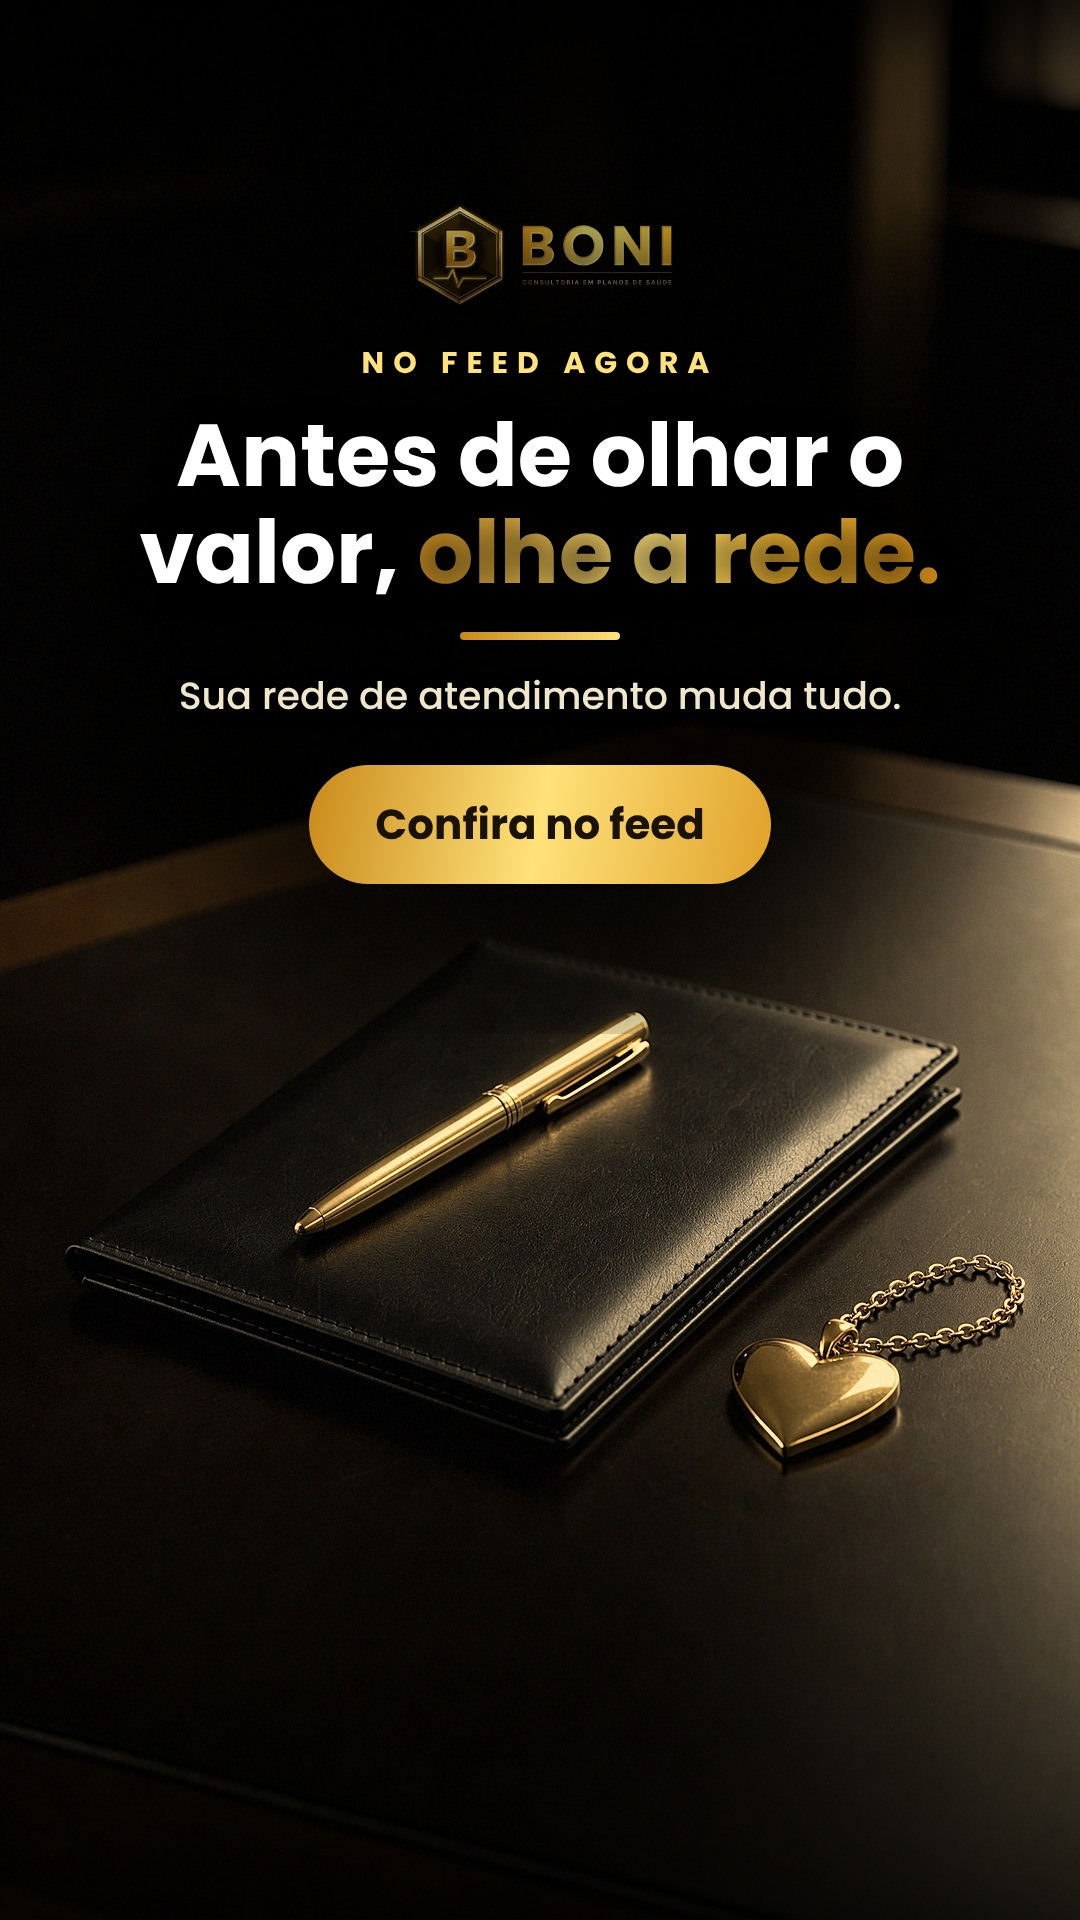
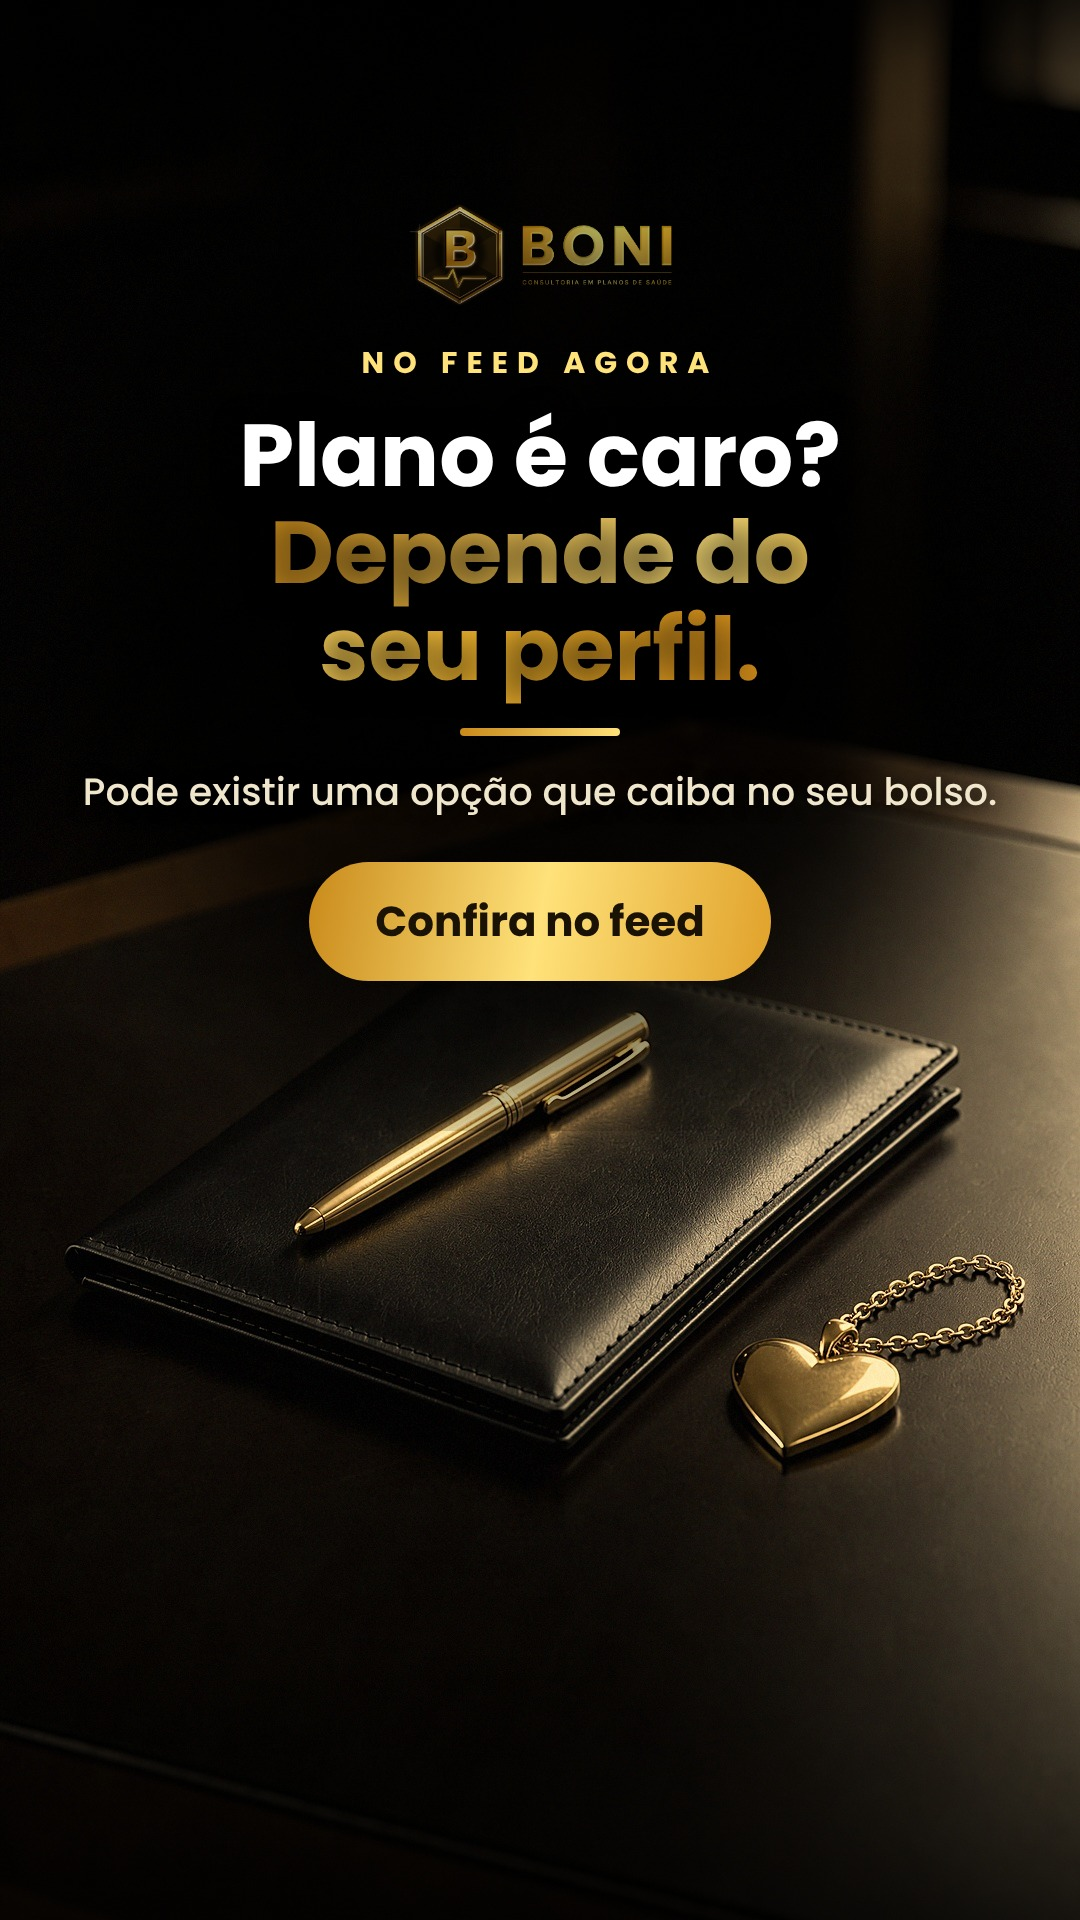
Semana 12-18/10: posts 'Plano é caro?' e 'Nunca usei o plano' + story de cena (aguardando aprovação)
Claude-Session: https://claude.ai/code/session_016UNNimnYsNx4a66oMiDygB

Changed region(s): [[0.0917, 0.2188, 0.9167, 0.5938]]

diff --git a/posts/10-plano-caro/_unico.html b/posts/10-plano-caro/_unico.html
@@ -1,0 +1,74 @@
+<!doctype html><html><head><meta charset="utf-8"><style>
+@font-face{font-family:'Poppins';font-weight:500;src:url('file:///tmp/kt/fontes/Poppins-Medium.ttf')}
+@font-face{font-family:'Poppins';font-weight:400;src:url('file:///tmp/kt/fontes/Poppins-Regular.ttf')}
+@font-face{font-family:'Poppins';font-weight:600;src:url('file:///tmp/kt/fontes/Poppins-Bold.ttf')}
+@font-face{font-family:'Poppins';font-weight:700;src:url('file:///tmp/kt/fontes/Poppins-Bold.ttf')}
+@font-face{font-family:'Poppins';font-weight:800;src:url('file:///tmp/kt/fontes/Poppins-Bold.ttf')}
+*{box-sizing:border-box;margin:0;padding:0}
+body{background:#222;font-family:'Poppins',sans-serif}
+.s{width:1080px;height:1350px;position:relative;overflow:hidden}
+.dark{background:radial-gradient(ellipse at 50% 18%,#2a1d07 0%,#0d0a05 48%,#000 100%);color:#fff}
+.light{background:radial-gradient(ellipse at 20% 0%,#fffdf8 0%,#f4eee2 60%,#ece3d0 100%);color:#17140d;display:flex;flex-direction:column;padding:190px 70px 0}
+.gold{background:linear-gradient(100deg,#c98a1a 0%,#ffe27a 45%,#f5b82e 70%,#d98f1a 100%);-webkit-background-clip:text;background-clip:text;color:transparent}
+.goldd{background:linear-gradient(100deg,#8a5a08 0%,#d9a02a 50%,#9a6a0e 100%);-webkit-background-clip:text;background-clip:text;color:transparent}
+.foot{position:absolute;left:70px;right:70px;bottom:52px;display:flex;justify-content:space-between;align-items:center;font-size:23px;letter-spacing:.5px}
+.foot b{font-weight:600}.dark .foot{color:#cdbb8c}.light .foot{color:#6b5a30}.pg{font-weight:600}
+.bar{position:absolute;left:70px;right:70px;bottom:112px;height:2px;background:linear-gradient(90deg,transparent,#c98a1a,transparent);opacity:.7}
+.c1 .em{position:absolute;left:50%;top:70px;width:560px;height:560px;transform:translateX(-50%);mix-blend-mode:lighten}
+.c1 .t{position:absolute;left:70px;right:70px;top:650px;text-align:center}
+.c1 .n{font-size:260px;line-height:.9;font-weight:800}
+.c1 .m{font-size:78px;font-weight:700;line-height:1.05;letter-spacing:2px;margin-top:6px}
+.c1 .m.long{font-size:70px;line-height:1.1;margin-top:0}
+.c1 .p{font-size:50px;font-weight:500;line-height:1.2;margin-top:26px;color:#f0e6cc}
+.c1 .sw{position:absolute;bottom:130px;left:0;right:0;text-align:center;font-size:30px;letter-spacing:6px;color:#ffe27a;font-weight:600}
+.num{position:absolute;right:50px;top:20px;font-size:420px;font-weight:800;line-height:1;opacity:.16}
+.ic{width:170px;height:170px;border-radius:38px;background:linear-gradient(145deg,#1a1308,#000);display:flex;align-items:center;justify-content:center;box-shadow:0 18px 40px rgba(120,80,10,.28),inset 0 0 0 3px #c98a1a;flex:none}
+.ic svg{width:100px;height:100px}
+.tag{margin-top:70px;font-size:32px;font-weight:600;letter-spacing:9px}
+.h{margin-top:22px;font-size:104px;font-weight:800;line-height:1.04}
+.hl{margin:48px 0 44px;width:170px;height:9px;border-radius:5px;background:linear-gradient(90deg,#c98a1a,#ffe27a)}
+.b{font-size:52px;line-height:1.36;font-weight:500;color:#2c261a;padding-right:20px}
+.b.small{font-size:46px}
+.c7 .ph{position:absolute;left:50%;top:150px;width:460px;height:460px;transform:translateX(-50%);border-radius:36px;overflow:hidden;box-shadow:0 0 0 4px #c98a1a,0 0 70px rgba(255,190,60,.35)}
+.c7 .ph img{width:100%;height:100%;object-fit:cover;object-position:50% 20%}
+.c7 .nm{position:absolute;top:640px;left:0;right:0;text-align:center;font-size:30px;letter-spacing:2px;color:#e8d9aa}
+.c7 .nm b{color:#fff;font-size:38px;font-weight:700;display:block;letter-spacing:1px}
+.c7 .q{position:absolute;top:745px;left:70px;right:70px;text-align:center;font-size:62px;font-weight:800;line-height:1.1}
+.c7 .tx{position:absolute;top:915px;left:80px;right:80px;text-align:center;font-size:33px;line-height:1.38;color:#f0e6cc;font-weight:500}
+.c7 .tx em{font-style:normal;color:#ffe27a;font-weight:700}
+.c7 .btn{position:absolute;top:1120px;left:50%;transform:translateX(-50%);padding:24px 54px;border-radius:70px;background:linear-gradient(100deg,#c98a1a,#ffe27a 50%,#e0a12a);color:#1a1205;font-size:36px;font-weight:700;white-space:nowrap}
+.c7 .leg{position:absolute;bottom:50px;left:60px;right:60px;text-align:center;font-size:20px;color:#a8996d;line-height:1.35}
+.f{background:#000;color:#fff}
+.f .bg{position:absolute;inset:0;width:100%;height:100%;object-fit:cover}
+.f .ov{position:absolute;inset:0;background:linear-gradient(180deg,rgba(0,0,0,.72) 0%,rgba(0,0,0,.05) 20%,rgba(0,0,0,.15) 38%,rgba(0,0,0,.86) 58%,rgba(0,0,0,.97) 100%)}
+.f .lg{position:absolute;left:60px;top:46px;height:84px;mix-blend-mode:lighten}
+.f .ct{text-shadow:0 2px 12px #000;position:absolute;right:64px;top:70px;font-size:26px;font-weight:600;letter-spacing:5px;color:#ffe27a}
+.f .ct i{font-style:normal;color:#8c7a4a}
+.f .blk{position:absolute;left:70px;right:70px;bottom:150px}
+.f .chip{display:flex;align-items:center;gap:22px}
+.f .ci{width:92px;height:92px;border-radius:26px;background:rgba(10,8,4,.62);backdrop-filter:blur(6px);display:flex;align-items:center;justify-content:center;box-shadow:inset 0 0 0 2.5px #c98a1a}
+.f .ci svg{width:54px;height:54px}
+.f .tg{font-size:30px;font-weight:600;letter-spacing:9px}
+.f .h{margin-top:26px;text-wrap:balance;font-size:92px;font-weight:800;line-height:1.04;text-shadow:0 4px 30px rgba(0,0,0,.6)}
+.f .hl{margin:34px 0 32px;width:150px;height:8px;border-radius:5px;background:linear-gradient(90deg,#c98a1a,#ffe27a)}
+.f .b{font-size:41px;line-height:1.38;font-weight:500;color:#eadfc2;padding:0;max-width:900px}
+.f .b.small{font-size:38px}
+.f .ft{position:absolute;left:70px;right:70px;bottom:56px;display:flex;justify-content:space-between;align-items:center;font-size:24px;letter-spacing:1px;color:#cdbb8c;font-weight:600}
+.f .ft .sw{color:#ffe27a;letter-spacing:6px}
+.f.cv .blk{bottom:170px;text-align:left}
+.f.cv .n{font-size:330px;line-height:.82;font-weight:800;letter-spacing:-6px}
+.f.cv .m{font-size:104px;font-weight:800;line-height:1.02;letter-spacing:2px;margin-top:14px}
+.f.cv .p{font-size:50px;font-weight:500;line-height:1.2;margin-top:22px;color:#f0e6cc}
+
+.u{background:radial-gradient(ellipse at 50% 20%,#2a1d07 0%,#0d0a05 52%,#000 100%);color:#fff}
+.u .em{position:absolute;left:50%;top:50px;width:250px;height:250px;transform:translateX(-50%);mix-blend-mode:lighten}
+.u .tg{position:absolute;top:320px;left:0;right:0;text-align:center;font-size:32px;font-weight:700;letter-spacing:10px;color:#ffe27a}
+.u .t{position:absolute;top:390px;left:80px;right:80px;text-align:center}
+.u .l1{font-size:72px;font-weight:700;line-height:1.1;color:#fff}
+.u .l2{font-size:96px;font-weight:800;line-height:1.05;margin-top:6px}
+.u .ln{margin:34px auto;width:170px;height:9px;border-radius:5px;background:linear-gradient(90deg,#c98a1a,#ffe27a)}
+.u .sb{font-size:40px;font-weight:500;line-height:1.35;color:#f0e6cc}
+.u .cta{position:absolute;bottom:150px;left:0;right:0;text-align:center}
+.u .cta .btn{display:inline-block;padding:26px 62px;border-radius:70px;background:linear-gradient(100deg,#c98a1a,#ffe27a 50%,#e0a12a);color:#1a1205;font-size:40px;font-weight:700}
+.u .av{position:absolute;bottom:60px;left:60px;right:60px;text-align:center;font-size:22px;color:#a8996d;line-height:1.35}
+</style></head><body><section class="s u" id="s1"><img class="em" src="file:///tmp/kt/marca/emblema.png"><div class="tg">A PERGUNTA MAIS COMUM</div><div class="t"><div class="l1">Plano de saúde é caro?</div><div class="l2 gold">Depende do seu perfil.</div><div class="ln"></div><div class="sb">Idade, cidade e tipo de plano mudam tudo. Pode existir uma opção que caiba no seu bolso. Eu te mostro.</div></div><div class="cta"><div class="btn">Comente PERFIL</div></div><div class="av">Carências, rede e valores variam por operadora e produto.<br>@boniconsultorsaude · T. R. Bonifácio Promoção de Vendas · CNPJ 24.505.726/0001-44</div></section></body></html>

diff --git a/posts/11-nunca-usei/_unico.html b/posts/11-nunca-usei/_unico.html
@@ -1,0 +1,74 @@
+<!doctype html><html><head><meta charset="utf-8"><style>
+@font-face{font-family:'Poppins';font-weight:500;src:url('file:///tmp/kt/fontes/Poppins-Medium.ttf')}
+@font-face{font-family:'Poppins';font-weight:400;src:url('file:///tmp/kt/fontes/Poppins-Regular.ttf')}
+@font-face{font-family:'Poppins';font-weight:600;src:url('file:///tmp/kt/fontes/Poppins-Bold.ttf')}
+@font-face{font-family:'Poppins';font-weight:700;src:url('file:///tmp/kt/fontes/Poppins-Bold.ttf')}
+@font-face{font-family:'Poppins';font-weight:800;src:url('file:///tmp/kt/fontes/Poppins-Bold.ttf')}
+*{box-sizing:border-box;margin:0;padding:0}
+body{background:#222;font-family:'Poppins',sans-serif}
+.s{width:1080px;height:1350px;position:relative;overflow:hidden}
+.dark{background:radial-gradient(ellipse at 50% 18%,#2a1d07 0%,#0d0a05 48%,#000 100%);color:#fff}
+.light{background:radial-gradient(ellipse at 20% 0%,#fffdf8 0%,#f4eee2 60%,#ece3d0 100%);color:#17140d;display:flex;flex-direction:column;padding:190px 70px 0}
+.gold{background:linear-gradient(100deg,#c98a1a 0%,#ffe27a 45%,#f5b82e 70%,#d98f1a 100%);-webkit-background-clip:text;background-clip:text;color:transparent}
+.goldd{background:linear-gradient(100deg,#8a5a08 0%,#d9a02a 50%,#9a6a0e 100%);-webkit-background-clip:text;background-clip:text;color:transparent}
+.foot{position:absolute;left:70px;right:70px;bottom:52px;display:flex;justify-content:space-between;align-items:center;font-size:23px;letter-spacing:.5px}
+.foot b{font-weight:600}.dark .foot{color:#cdbb8c}.light .foot{color:#6b5a30}.pg{font-weight:600}
+.bar{position:absolute;left:70px;right:70px;bottom:112px;height:2px;background:linear-gradient(90deg,transparent,#c98a1a,transparent);opacity:.7}
+.c1 .em{position:absolute;left:50%;top:70px;width:560px;height:560px;transform:translateX(-50%);mix-blend-mode:lighten}
+.c1 .t{position:absolute;left:70px;right:70px;top:650px;text-align:center}
+.c1 .n{font-size:260px;line-height:.9;font-weight:800}
+.c1 .m{font-size:78px;font-weight:700;line-height:1.05;letter-spacing:2px;margin-top:6px}
+.c1 .m.long{font-size:70px;line-height:1.1;margin-top:0}
+.c1 .p{font-size:50px;font-weight:500;line-height:1.2;margin-top:26px;color:#f0e6cc}
+.c1 .sw{position:absolute;bottom:130px;left:0;right:0;text-align:center;font-size:30px;letter-spacing:6px;color:#ffe27a;font-weight:600}
+.num{position:absolute;right:50px;top:20px;font-size:420px;font-weight:800;line-height:1;opacity:.16}
+.ic{width:170px;height:170px;border-radius:38px;background:linear-gradient(145deg,#1a1308,#000);display:flex;align-items:center;justify-content:center;box-shadow:0 18px 40px rgba(120,80,10,.28),inset 0 0 0 3px #c98a1a;flex:none}
+.ic svg{width:100px;height:100px}
+.tag{margin-top:70px;font-size:32px;font-weight:600;letter-spacing:9px}
+.h{margin-top:22px;font-size:104px;font-weight:800;line-height:1.04}
+.hl{margin:48px 0 44px;width:170px;height:9px;border-radius:5px;background:linear-gradient(90deg,#c98a1a,#ffe27a)}
+.b{font-size:52px;line-height:1.36;font-weight:500;color:#2c261a;padding-right:20px}
+.b.small{font-size:46px}
+.c7 .ph{position:absolute;left:50%;top:150px;width:460px;height:460px;transform:translateX(-50%);border-radius:36px;overflow:hidden;box-shadow:0 0 0 4px #c98a1a,0 0 70px rgba(255,190,60,.35)}
+.c7 .ph img{width:100%;height:100%;object-fit:cover;object-position:50% 20%}
+.c7 .nm{position:absolute;top:640px;left:0;right:0;text-align:center;font-size:30px;letter-spacing:2px;color:#e8d9aa}
+.c7 .nm b{color:#fff;font-size:38px;font-weight:700;display:block;letter-spacing:1px}
+.c7 .q{position:absolute;top:745px;left:70px;right:70px;text-align:center;font-size:62px;font-weight:800;line-height:1.1}
+.c7 .tx{position:absolute;top:915px;left:80px;right:80px;text-align:center;font-size:33px;line-height:1.38;color:#f0e6cc;font-weight:500}
+.c7 .tx em{font-style:normal;color:#ffe27a;font-weight:700}
+.c7 .btn{position:absolute;top:1120px;left:50%;transform:translateX(-50%);padding:24px 54px;border-radius:70px;background:linear-gradient(100deg,#c98a1a,#ffe27a 50%,#e0a12a);color:#1a1205;font-size:36px;font-weight:700;white-space:nowrap}
+.c7 .leg{position:absolute;bottom:50px;left:60px;right:60px;text-align:center;font-size:20px;color:#a8996d;line-height:1.35}
+.f{background:#000;color:#fff}
+.f .bg{position:absolute;inset:0;width:100%;height:100%;object-fit:cover}
+.f .ov{position:absolute;inset:0;background:linear-gradient(180deg,rgba(0,0,0,.72) 0%,rgba(0,0,0,.05) 20%,rgba(0,0,0,.15) 38%,rgba(0,0,0,.86) 58%,rgba(0,0,0,.97) 100%)}
+.f .lg{position:absolute;left:60px;top:46px;height:84px;mix-blend-mode:lighten}
+.f .ct{text-shadow:0 2px 12px #000;position:absolute;right:64px;top:70px;font-size:26px;font-weight:600;letter-spacing:5px;color:#ffe27a}
+.f .ct i{font-style:normal;color:#8c7a4a}
+.f .blk{position:absolute;left:70px;right:70px;bottom:150px}
+.f .chip{display:flex;align-items:center;gap:22px}
+.f .ci{width:92px;height:92px;border-radius:26px;background:rgba(10,8,4,.62);backdrop-filter:blur(6px);display:flex;align-items:center;justify-content:center;box-shadow:inset 0 0 0 2.5px #c98a1a}
+.f .ci svg{width:54px;height:54px}
+.f .tg{font-size:30px;font-weight:600;letter-spacing:9px}
+.f .h{margin-top:26px;text-wrap:balance;font-size:92px;font-weight:800;line-height:1.04;text-shadow:0 4px 30px rgba(0,0,0,.6)}
+.f .hl{margin:34px 0 32px;width:150px;height:8px;border-radius:5px;background:linear-gradient(90deg,#c98a1a,#ffe27a)}
+.f .b{font-size:41px;line-height:1.38;font-weight:500;color:#eadfc2;padding:0;max-width:900px}
+.f .b.small{font-size:38px}
+.f .ft{position:absolute;left:70px;right:70px;bottom:56px;display:flex;justify-content:space-between;align-items:center;font-size:24px;letter-spacing:1px;color:#cdbb8c;font-weight:600}
+.f .ft .sw{color:#ffe27a;letter-spacing:6px}
+.f.cv .blk{bottom:170px;text-align:left}
+.f.cv .n{font-size:330px;line-height:.82;font-weight:800;letter-spacing:-6px}
+.f.cv .m{font-size:104px;font-weight:800;line-height:1.02;letter-spacing:2px;margin-top:14px}
+.f.cv .p{font-size:50px;font-weight:500;line-height:1.2;margin-top:22px;color:#f0e6cc}
+
+.u{background:radial-gradient(ellipse at 50% 20%,#2a1d07 0%,#0d0a05 52%,#000 100%);color:#fff}
+.u .em{position:absolute;left:50%;top:50px;width:250px;height:250px;transform:translateX(-50%);mix-blend-mode:lighten}
+.u .tg{position:absolute;top:320px;left:0;right:0;text-align:center;font-size:32px;font-weight:700;letter-spacing:10px;color:#ffe27a}
+.u .t{position:absolute;top:390px;left:80px;right:80px;text-align:center}
+.u .l1{font-size:72px;font-weight:700;line-height:1.1;color:#fff}
+.u .l2{font-size:96px;font-weight:800;line-height:1.05;margin-top:6px}
+.u .ln{margin:34px auto;width:170px;height:9px;border-radius:5px;background:linear-gradient(90deg,#c98a1a,#ffe27a)}
+.u .sb{font-size:40px;font-weight:500;line-height:1.35;color:#f0e6cc}
+.u .cta{position:absolute;bottom:150px;left:0;right:0;text-align:center}
+.u .cta .btn{display:inline-block;padding:26px 62px;border-radius:70px;background:linear-gradient(100deg,#c98a1a,#ffe27a 50%,#e0a12a);color:#1a1205;font-size:40px;font-weight:700}
+.u .av{position:absolute;bottom:60px;left:60px;right:60px;text-align:center;font-size:22px;color:#a8996d;line-height:1.35}
+</style></head><body><section class="s u" id="s1"><img class="em" src="file:///tmp/kt/marca/emblema.png"><div class="tg">SERÁ QUE PRECISO?</div><div class="t"><div class="l1">Nunca usei plano de saúde.</div><div class="l2 gold">Por que ter um?</div><div class="ln"></div><div class="sb">Porque imprevisto não avisa. Ter plano é ter mais opções de atendimento na hora que você mais precisa.</div></div><div class="cta"><div class="btn">Comente PLANO</div></div><div class="av">Carências, rede e valores variam por operadora e produto.<br>@boniconsultorsaude · T. R. Bonifácio Promoção de Vendas · CNPJ 24.505.726/0001-44</div></section></body></html>

diff --git a/stories/09-semana-12-18/build.py b/stories/09-semana-12-18/build.py
@@ -49,7 +49,7 @@ T = {
  'ter-reel': ('bal', 1.0, 88, B(340, 'REEL NO AR', f'Reajuste do plano de saúde? {G("Veja o que olhar.")}', 'Acabou de sair no feed.', 'Assista no feed')),
  'ter-resposta': ('meet', .9, 88, B(340, 'A RESPOSTA', f'É {G("MITO.")}', 'O plano PME (empresarial) é a partir de 1 vida, inclusive para MEI. Outras condições variam por operadora.')),
  'qua-bastidor': ('laptop', 1.0, 88, B(360, 'BASTIDORES', f'Cada análise começa pelo seu {G("perfil.")}', 'Idade, cidade, rede e orçamento. O plano certo é o que cabe no seu perfil.')),
- 'qua-feed': ('pasta', 1.0, 88, B(340, 'NO FEED AGORA', f'Antes de olhar o valor, {G("olhe a rede.")}', 'Sua rede de atendimento muda tudo.', 'Confira no feed')),
+ 'qua-feed': ('pasta', 1.0, 88, B(340, 'NO FEED AGORA', f'Plano é caro? {G("Depende do seu perfil.")}', 'Pode existir uma opção que caiba no seu bolso.', 'Confira no feed')),
  'qui-dica': ('calbr', .9, 88, B(380, 'DICA RÁPIDA', f'Carência: pergunte {G("antes de assinar.")}', 'Cada plano tem os seus prazos. Peça tudo por escrito.')),
  'qui-feed': ('hand', 1.0, 88, B(340, 'NO FEED AGORA', f'Como contratar, {G("passo a passo.")}', 'Sem complicação, do primeiro contato à proposta.', 'Confira no feed')),
  'sex-1': ('calc', .9, 88, B(380, 'DICA RÁPIDA · 1/3', f'Quem vai {G("usar o plano?")}', 'Só você, a família ou a equipe? O perfil muda o tipo de plano.')),
@@ -57,7 +57,8 @@ T = {
  'sex-3': ('stet', 1.0, 88, B(340, 'DICA RÁPIDA · 3/3', f'Tem mais no {G("carrossel.")}', 'São 7 perguntas no feed. Me chame no WhatsApp com a palavra PERGUNTAS.', 'Fale comigo no link da bio')),
  'sex-reel': ('clock', 1.0, 88, B(340, 'REEL NO AR', f'Saúde {G("não espera.")}', 'Acabou de sair no feed.', 'Assista no feed')),
  'sab-enquete': ('maos', .85, 78, B(330, 'ENQUETE', f'O que pesa mais na hora de escolher o {G("plano?")}', 'Vote abaixo: rede ou mensalidade. Depois eu conto o que vem por aí.')),
- 'sab-feed': ('cal', 1.0, 88, B(340, 'NO FEED AGORA', f'Mito ou verdade: {G("plano PME.")}', 'Plano empresarial é só para empresa grande?', 'Confira no feed')),
+ 'sab-feed': ('cal', 1.0, 88, B(340, 'NO FEED AGORA', f'Nunca usei o plano. {G("Por que ter?")}', 'Porque imprevisto não avisa.', 'Confira no feed')),
+ 'dom-cena': ('phone', .8, 78, B(330, 'CENA DO DIA A DIA', f'Febre do filho de madrugada. {G("Você está preparado?")}', 'Imprevisto de saúde não avisa. Ter plano é ter mais opções na hora de agir.')),
  'dom-leve': ('chair', .9, 88, B(340, 'BOM DOMINGO', f'Segunda tem {G("mais dica.")}', 'Dúvida sobre plano de saúde? Me chame pelo link da bio.')),
 }
 css = CSS.replace('FONTES', (KIT/'fontes').as_uri())

diff --git a/posts/11-nunca-usei/REVISAO.md b/posts/11-nunca-usei/REVISAO.md
@@ -1,0 +1,3 @@
+# Revisão: post "Nunca usei o plano" (sáb 17/10, 19h30)
+- "Mais opções de atendimento" (sem prometer atendimento imediato nem cobertura). A legenda lembra que cada plano tem rede e regras próprias.
+- Sem medo exagerado: cita imprevisto e filho com febre, sem número e sem prazo de espera. CTA: PLANO.

diff --git a/posts/10-plano-caro/REVISAO.md b/posts/10-plano-caro/REVISAO.md
@@ -1,0 +1,3 @@
+# Revisão: post "Plano é caro?" (qua 14/10, 19h30)
+- Sem preço, sem "mais barato" e sem promessa: "pode existir uma opção que caiba no seu bolso" (mesma linha da narração do Reel 03).
+- Sem nome de operadora. CTA: PERFIL.
